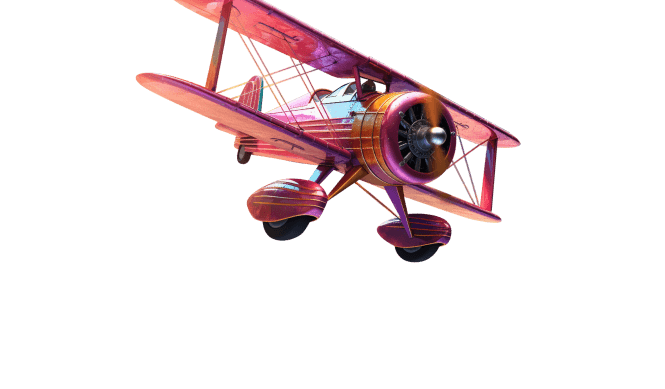
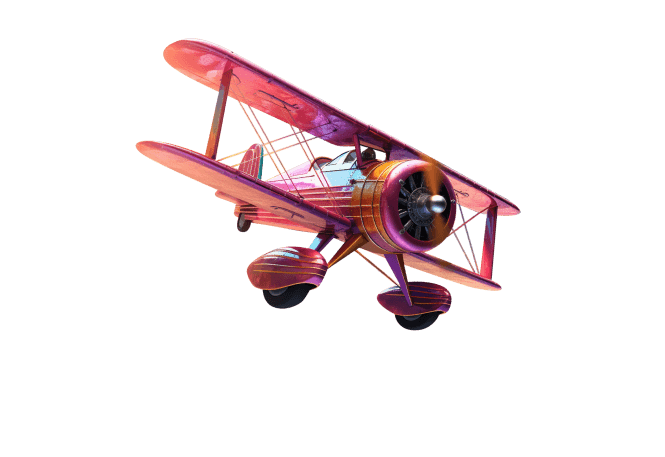
add main and wheel section

Changed region(s): [[0.1805, 0.0, 0.782, 0.7404]]

diff --git a/src/components/Wheel/wheel.module.css b/src/components/Wheel/wheel.module.css
@@ -1,0 +1,49 @@
+.container {
+  position: relative;
+  /* top: 1em; */
+  /* right: 0; */
+}
+.wheel {
+  position: absolute;
+  width: 57.125em;
+  bottom: 0;
+  right: 12em;
+}
+.bonuses {
+  position: absolute;
+  width: 39.1875em;
+  bottom: 11.8em;
+  right: 21em;
+  animation: 2s spin ease-in-out infinite alternate;
+}
+.btnSpin {
+  position: absolute;
+  width: 6.125em;
+  bottom: 27.8em;
+  right: 37.2em;
+  cursor: pointer;
+}
+.btn {
+  position: absolute;
+  bottom: 4.3em;
+  right: 13.2em;
+  color: #101219;
+  border-radius: 2.5em;
+  padding: 0.5em 1.225em;
+  background: #ffba00;
+  text-align: center;
+  font-size: 2.5em;
+  line-height: 90%;
+  text-transform: uppercase;
+  cursor: pointer;
+  z-index: 2;
+}
+@keyframes spin {
+  0% {
+    transform: rotate(-10deg);
+  }
+
+  100% {
+    transform: rotate(10deg);
+  }
+}

diff --git a/src/components/Wheel/Wheel.jsx b/src/components/Wheel/Wheel.jsx
@@ -1,5 +1,15 @@
 import s from "./wheel.module.css";
+import wheel from "../../images/wheel.png";
+import bonuses from "../../images/bonuses.png";
+import btnSpin from "../../images/btn_spin.png";
 
 export default function Wheel() {
-  return <div>Wheel</div>;
+  return (
+    <div className={s.container}>
+      <img className={s.wheel} src={wheel} alt="wheel" />
+      <img className={s.bonuses} src={bonuses} alt="bonuses" />
+      <img className={s.btnSpin} src={btnSpin} alt="btnSpin" />
+      <div className={s.btn}>RODAR</div>
+    </div>
+  );
 }

diff --git a/src/components/Main/Main.jsx b/src/components/Main/Main.jsx
@@ -1,5 +1,14 @@
 import s from "./main.module.css";
+import plane1 from "../../images/plane1.png";
+import plane2 from "../../images/plane2.png";
+import plane3 from "../../images/plane3.png";
 
 export default function Main() {
-  return <div>Main</div>;
+  return (
+    <div className={s.container}>
+      <img className={`${s.plane} ${s.plane1}`} src={plane1} alt="plain1" />
+      <img className={`${s.plane} ${s.plane2}`} src={plane2} alt="plain2" />
+      <img className={`${s.plane} ${s.plane3}`} src={plane3} alt="plain3" />
+    </div>
+  );
 }

diff --git a/src/index.css b/src/index.css
@@ -19,8 +19,9 @@ html,
 body {
   box-sizing: border-box;
   font-size: 0.833vw;
+  font-family: Uni Sans;
   font-style: normal;
-  font-weight: 400;
+  font-weight: 900;
   line-height: normal;
   height: 100dvh;
   overflow-x: hidden;
@@ -37,6 +38,11 @@ img,
 video {
   max-width: 100%;
   height: auto;
+}
+@font-face {
+  font-family: "Uni Sans";
+  font-weight: 900;
+  src: local("Uni Sans"), url(./fonts/uni_sans_heavy.ttf) format("opentype");
 }
 @media (orientation: portrait) {
   html,

diff --git a/src/components/Main/main.module.css b/src/components/Main/main.module.css
@@ -1,0 +1,24 @@
+.container {
+  position: relative;
+  width: 100vw;
+  height: 100vh;
+}
+.plane {
+  position: absolute;
+  pointer-events: none;
+}
+.plane1 {
+  width: 91em;
+  bottom: 0;
+  z-index: 1;
+}
+.plane2 {
+  width: 25.75em;
+  bottom: 34em;
+  left: 12em;
+}
+.plane3 {
+  width: 36.69em;
+  bottom: 36em;
+  left: 27em;
+}

diff --git a/src/components/Container/Container.jsx b/src/components/Container/Container.jsx
@@ -1,5 +1,5 @@
 import s from "./container.module.css";
 
 export default function Container({ children }) {
-  return <div>{children}</div>;
+  return <div className={s.container}>{children}</div>;
 }

diff --git a/src/App.js b/src/App.js
@@ -4,6 +4,9 @@ import Wheel from "./components/Wheel/Wheel";
 
 function App() {
   return (
+    // <>
+
+    // </>
     <Container>
       <Main />
       <Wheel />

diff --git a/src/components/Container/container.module.css b/src/components/Container/container.module.css
@@ -1,0 +1,3 @@
+.container {
+  position: relative;
+}
